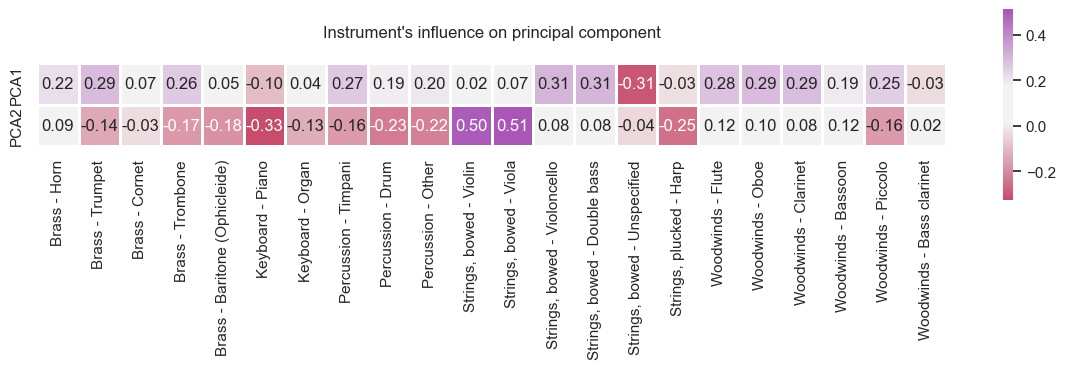
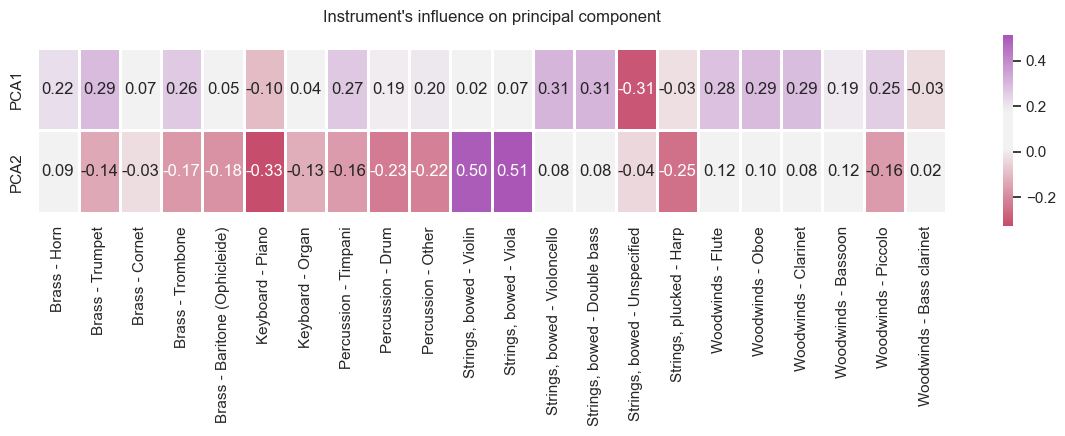
examples

diff --git a/doc-db/src/pca_analysis.py b/doc-db/src/pca_analysis.py
@@ -47,7 +47,7 @@ def make_heatmap(d: DataFrame):
             "orientation": "vertical",
         },
     )
-    chart.set_aspect("equal")
+    chart.set_aspect(2)
     title = "Instrument's influence on principal component\n"
     chart.set_title(title)
     plt.tight_layout()

diff --git a/doc-db/README.md b/doc-db/README.md
@@ -1,15 +1,70 @@
 # Analysis of opéra-comique corpus, 1800-1840
 
-A Principal Component Analysis (PCA) on the deployment of different instruments throughout an opera shows a gradual shift in required performing forces between 1800 and 1840.
+A Principal Component Analysis (PCA) about operas' deployment of various instruments shows a gradual shift in the performing forces that scores required between 1800 and 1840 at the Opéra-Comique.
 
-![PCA variable weights](results/pca_variables_and_components.png)
+## Data
 
-Using PCA, we observe each opera in the corpus and assess the proportion of numbers (arias, overtures, interludes, etc.) in which each instrument was deployed. Violons and violas, for example, were used in every number of every opera in the corpus. Therefore, as seen in the heatmap at the bottom of the figure below, they are both highly correlated with one of the principal components and hardly correlated at all (0.02 and 0.07) with the other, meaning the presence of violons and violas is not a significant factor in the analysis. Trombones, trumpets, and timpani, on the other hand, are significant in both principal components of the analysis, both negatively (magenta) and positively (purple) influencing the PCA. Therefore, we can conclude that these dimensions, low brass and percussion, have significant deviations in the corpus.
+A digitization was located for N number of Z operas composed at the Opéra-Comique between the start of 1820 and the end of 1840.
+
+An MEI-XML header was then generated for each digitized opera score. The header features a `<workList>`, which lists each of the opera's numbers (`<work>`). Every `<work>` contains a list of its performing forces. Encoded with the `<perfRes>` tag, the performing force includes 3 pieces of information:
+
+1. `@codedval`: A standardized category label for the instrument, taken from the [MARC Instruments and Voices Code List](https://www.loc.gov/standards/valuelist/marcmusperf.html).
+
+2. `@count`: The minimal number of players required for the instrument part, as determined by the number of staves (note: currently, this is an estimation, more granular encoding is needed).
+
+3. `text`: The name of the instrument in the encoded score.
+
+### Example: `<work>` encoding
+
+```xml
+<work n="3" xml:id="work3">
+    <title>Air</title>
+    <incip>
+        <incipText>
+            <p>De tous les pays pour vous plaire</p>
+        </incipText>
+    </incip>
+    <perfMedium>
+        <perfResList>
+            <perfRes count="1" codedval="wa">Flutes</perfRes>
+            <perfRes count="1" codedval="we">Petite flute</perfRes>
+            <perfRes count="1" codedval="wc">Clarinettes</perfRes>
+            <perfRes count="1" codedval="ba">Cors in D</perfRes>
+            <perfRes count="1" codedval="wd">Fag.</perfRes>
+            <perfRes count="2" codedval="sa">Viol.</perfRes>
+            <perfRes count="1" codedval="sb">Alto</perfRes>
+            <perfRes count="1" codedval="sn">Bassi</perfRes>
+        </perfResList>
+    </perfMedium>
+</work>
+```
+
+The corpus of encoded MEI-XML headers was then processed into a dataset that presents how much of the opera required at least 1 of each instrument. This representation is calculated as the sum of times 1 or more instruments are required for a work, divided by the quantity of works. Because the `@count` metadata is not yet reliable, it is ignored. Any time an instrument is required, 1 value is added to the sum of times the instrument is required during the opera. The sum is divided by the quantity of works in order to standardize the average for operas in the corpus of varying lengths. An example of the resulting dataset is shown below.
+
+### Example: Selection from dataset
+
+- 1800: _Les Deux Journées ou le Porteur d'eau_ (Cherubini)
+- 1823: _Leicester ou le Château de Kenilworth_ (Auber)
+- 1840: _Zanetta ou Jouer avec le feu_ (Auber)
+
+year|Brass: Horn|Brass: Trumpet|Brass: Cornet|Brass: Trombone|Brass: Baritone (Ophicleide)|Keyboard: Piano|Keyboard: Organ|Percussion: Timpani|Percussion: Drum|Percussion: Other|Strings, bowed: Violin|Strings, bowed: Viola|Strings, bowed: Violoncello|Strings, bowed: Double bass|Strings, bowed: Unspecified|Strings, plucked: Harp|Woodwinds: Flute|Woodwinds: Oboe|Woodwinds: Clarinet|Woodwinds: Bassoon|Woodwinds: Piccolo|Woodwinds: Bass clarinet
+-|-|-|-|-|-|-|-|-|-|-|-|-|-|-|-|-|-|-|-|-|-|-
+1800|0.86|0.0|0.0|0.43|0.0|0.0|0.0|0.14|0.0|0.0|1.0|1.0|0.86|0.5|0.36|0.0|0.79|0.71|0.71|0.86|0.0|0.0
+1823|1.0|0.53|0.0|0.0|0.0|0.0|0.0|0.4|0.0|0.0|1.0|1.0|1.0|1.0|0.0|0.27|1.0|1.0|1.0|0.0|0.2|0.0
+1840|1.0|0.47|0.07|0.8|0.0|0.0|0.0|0.53|0.13|0.13|1.0|1.0|1.0|1.0|0.0|0.0|1.0|1.0|1.0|1.0|0.4|0.0
+
+## Methodology
+
+The challenge with analyzing instrumentation is that each opera has a high number of dimensions, as many as there are instruments in the orchestra. Using PCA, we can reduce the data to what is most important and plot the operas along 2 dimensions, rendering it comprehensible to a human.
+
+Violons and violas, for example, were used in every number of every opera in the corpus. Therefore, as seen in the heatmap in the figure below, they are both highly correlated with one of the principal components and hardly correlated at all (0.02 and 0.07) with the other. This means that the presence of violons and violas is not a significant factor in the analysis. Trombones, trumpets, and timpani, on the other hand, are significant in both principal components of the analysis, both negatively (magenta) and positively (purple) influencing the PCA. Therefore, we can conclude that these dimensions, low brass and percussion, have significant deviations in the corpus.
+
+![PCA variable weights](results/pca_variables_and_components.png?)
+
+When we plot the operas in a 2-D graph according to their PCA values (PCA1, PCA2), we see clusters form according to the opera's year of composition, which is indicated by color. This is interesting because the year of composition is not part of the PCA; it is a completely independent variable. As such, we can conclude that patterns in opera orchestration, which the PCA explores, are correlated with time. In other words, orchestration changes over time. (This is what we predicted in our hypothesis and, on its own, isn't surprising at all.)
 
 ![PCA plot](results/pca_plot.png?)
 
-When we plot the operas according to their PCA values (PCA1, PCA2), we see clusters form according to the opera's year of composition, which is indicated by color. This is interesting because the year of composition is not part of the PCA; it is a completely independent variable. As such, we can conclude that patterns in opera orchestration, which the PCA explores, are correlated with time. In other words, orchestration changes over time. (This is what we predicted in our hypothesis and, in on its own, isn't surprising at all.)
+Operas composed between 1815 and 1825, shown in yellow, are less predicatbly positioned in the PCA visualization, especially compared to the operas composed in the following decades. Sometimes operas composed during this transition period cluster with those of the previous decade. Such is the case of _Le Pavillon de fleurs_ (1822), _Les Rivaux de village_ (1819), and _Corisandre ou la Rose magique_ (1820). Yet, other times, they do not share many traits with operas on either end of the temporal spectrum, as seen with the yellow cluster at the center of the graph. Further inspection of these operas, which date primarily from between 1817 and 1823, shows that the reason they differ is because they tended to deploy trumpets, unlike operas, but not trombones, unlike later operas.
 
-Operas composed between 1815 and 1825, shown in yellow, are less predicatbly positioned in the PCA visualization. Sometimes works composed during this transition period cluster with those of the previous decade. Such is the case of _Le Pavillon de fleurs_ (1822), _Les Rivaux de village_ (1819), and _Corisandre ou la Rose magique_ (1820). Sometimes they do not share many traits with operas on either end of the temporal spectrum, as seen with the yellow cluster at the center of the graph. Further inspection of these works, largely from 1817 to 1823, shows that the reason they differ is because they tended to deploy trumpets, which is different than older operas, but not trombones, which is different than later operas.
-
-While most of the operas composed after 1830 are tightly grouped together in a shared, almost standardized instrumentation (blue-green cluster), there are several notable outliers that differ both from previous models and contemporary works: _Le Domino Noir_ (1837), _Zampa_ (1831), and _Le morceau d'ensemble_ (1831). These outliers suggest that the 1830s presented significantly innovative experimentations in orchestration not tested earlier in the century.
+Most of the operas composed after 1830 are tightly grouped together in a shared, almost standardized instrumentation. They appear in a blue-green cluster with PCA1 values between 1.5 and 4, and PCA2 values between -1 and 1. However, there are several notable outliers from this time period that differ both from previous models and contemporary operas: _Le Domino Noir_ (1837), _Zampa_ (1831), and _Le morceau d'ensemble_ (1831). These outliers suggest that the 1830s presented more innovative experimentations in orchestration not tested earlier in the century.
